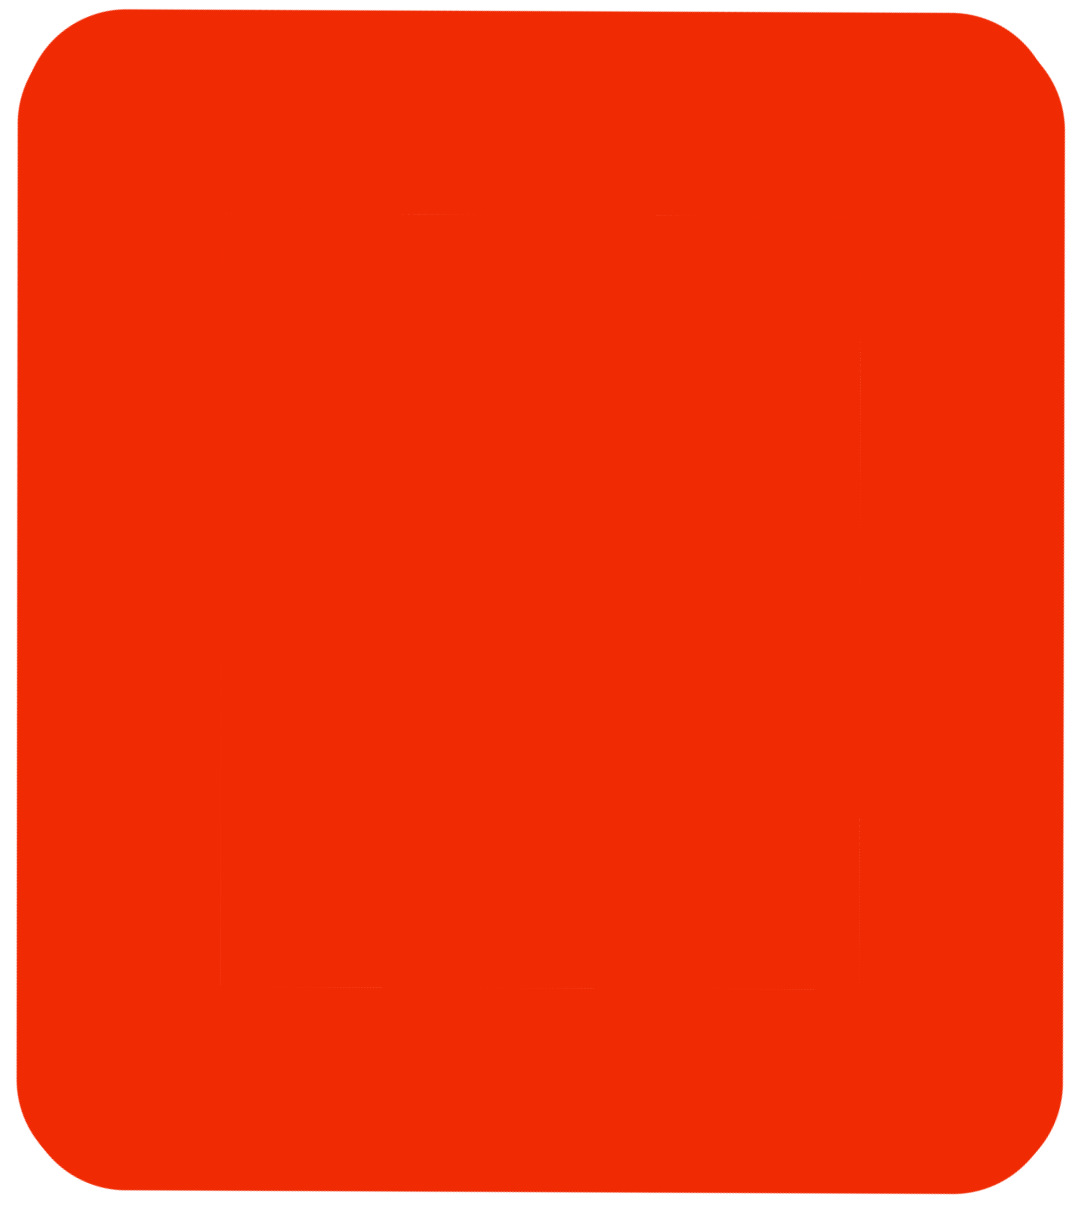
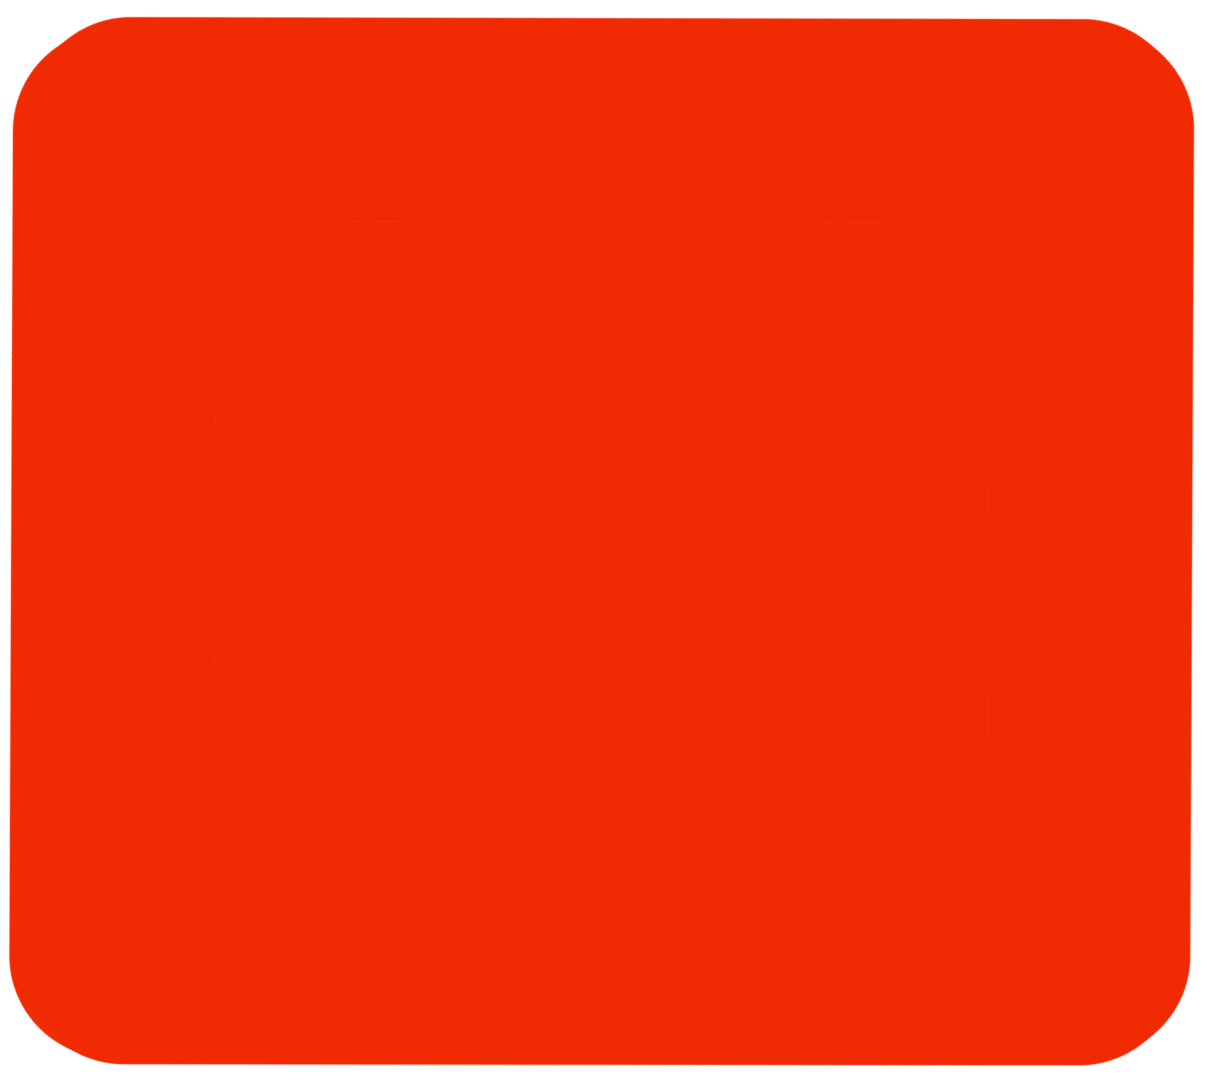
Added energy borders to component pages

diff --git a/frontend/src/components/EnergyComponentPage.jsx b/frontend/src/components/EnergyComponentPage.jsx
@@ -5,15 +5,25 @@ import energyComponents from "../../../test_data/energyComponents.json";
 import { BarChart } from '@mui/x-charts/BarChart';
 import backgroundImage from "../assets/component_page_background.png";
 import carImage from "../assets/car.png";
+import carEnergy from "../assets/car_energy.png";
 import freezerImage from "../assets/freezer.png";
+import freezerEnergy from "../assets/freezer_energy.png";
 import heaterImage from "../assets/heater.png";
+import heaterEnergy from "../assets/heater_energy.png";
 import airHeatPumpImage from "../assets/air_heat_pump.png";
+import heatPumpEnergy from "../assets/air_heat_pump_energy.png";
 import hotWaterHeaterImage from "../assets/hot_water_heater.png";
+import waterHeaterEnergy from "../assets/hot_water_heater_energy.png";
 import jacuzziImage from "../assets/jacuzzi.png";
+import jacuzziEnergy from "../assets/jacuzzi_energy.png";
 import solarPanelImage from "../assets/solar_panel.png";
+import solarPanelEnergy from "../assets/solar_panel_energy.png";
 import stoveImage from "../assets/stove.png";
+import stoveEnergy from "../assets/stove_energy.png";
 import washingMachineImage from "../assets/washing_machine.png";
+import WashingMachineEnergy from "../assets/washing_machine_energy.png";
 import electricBoardImage from "../assets/electric_board.png";
+import electricBoardEnergy from "../assets/electric_board_energy.png";
 import NotFound from './NotFound';
 import { useState, useEffect } from 'react';
 import { ChartContainer } from '@mui/x-charts/ChartContainer';
@@ -57,6 +67,23 @@ const imageMapping = {
   'stove': stoveImage,
   'washing-machine': washingMachineImage,
 };
+
+const borderMapping = {
+  'electric-board': electricBoardEnergy,
+  'electric-car-1': carEnergy,
+  'electric-car-2': carEnergy,
+  'freezer': freezerEnergy,
+  'heater': heaterEnergy,
+  'heat-pump': heatPumpEnergy,
+  'hot-water-heater': waterHeaterEnergy,
+  'jacuzzi': jacuzziEnergy,
+  'solar-panel-1': solarPanelEnergy,
+  'solar-panel-2': solarPanelEnergy,
+  'solar-panel-3': solarPanelEnergy,
+  'solar-panel-4': solarPanelEnergy,
+  'stove': stoveEnergy,
+  'washing-machine': WashingMachineEnergy,
+}
 
 const EnergyComponentPage = () => { 
 
@@ -287,16 +314,30 @@ const EnergyComponentPage = () => {
                         }}
                       >
                         <img
-                          id={component.id}
-                          src={imageMapping[component.id]}
+                          id={`${component.id}-energy`}
+                          src={borderMapping[component.id]}
                           alt={component.id}
-                          className={`${component.id}-image`}
+                          className={`${component.id}-energy`}
                           style={{
                             display: 'block',
                             marginLeft: 'auto',
                             marginRight: 'auto',
                             marginTop: 'auto',
                             marginBottom: 'auto',
+                            width: 'auto',
+                            height: '56%',
+                          }}
+                        />
+                        <img
+                          id={component.id}
+                          src={imageMapping[component.id]}
+                          alt={component.id}
+                          className={`${component.id}-image`}
+                          style={{
+                            position: 'absolute',
+                            top: '50%',
+                            left: '50%',
+                            transform: 'translate(-50%, -50%)',
                             width: 'auto',
                             height: '50%',
                           }}

diff --git a/frontend/src/components/visual_components/ElectricCar1.jsx b/frontend/src/components/visual_components/ElectricCar1.jsx
@@ -42,7 +42,7 @@ const ElectricCar1 = ({demoTime, demoStartTime}) => {
   return(
     <div>
       <img
-        id="electric-car-energy"
+        id="electric-car-energy-1"
         src={energyBorder}
         alt="energy"
         className="electric-car-energy-border"

diff --git a/frontend/src/components/visual_components/ElectricCar2.jsx b/frontend/src/components/visual_components/ElectricCar2.jsx
@@ -42,7 +42,7 @@ const ElectricCar2 = ({demoTime, demoStartTime}) => {
   return(
     <div>
       <img
-        id="electric-car-energy"
+        id="electric-car-energy-2"
         src={energyBorder}
         alt="energy"
         className="electric-car-energy-border"
